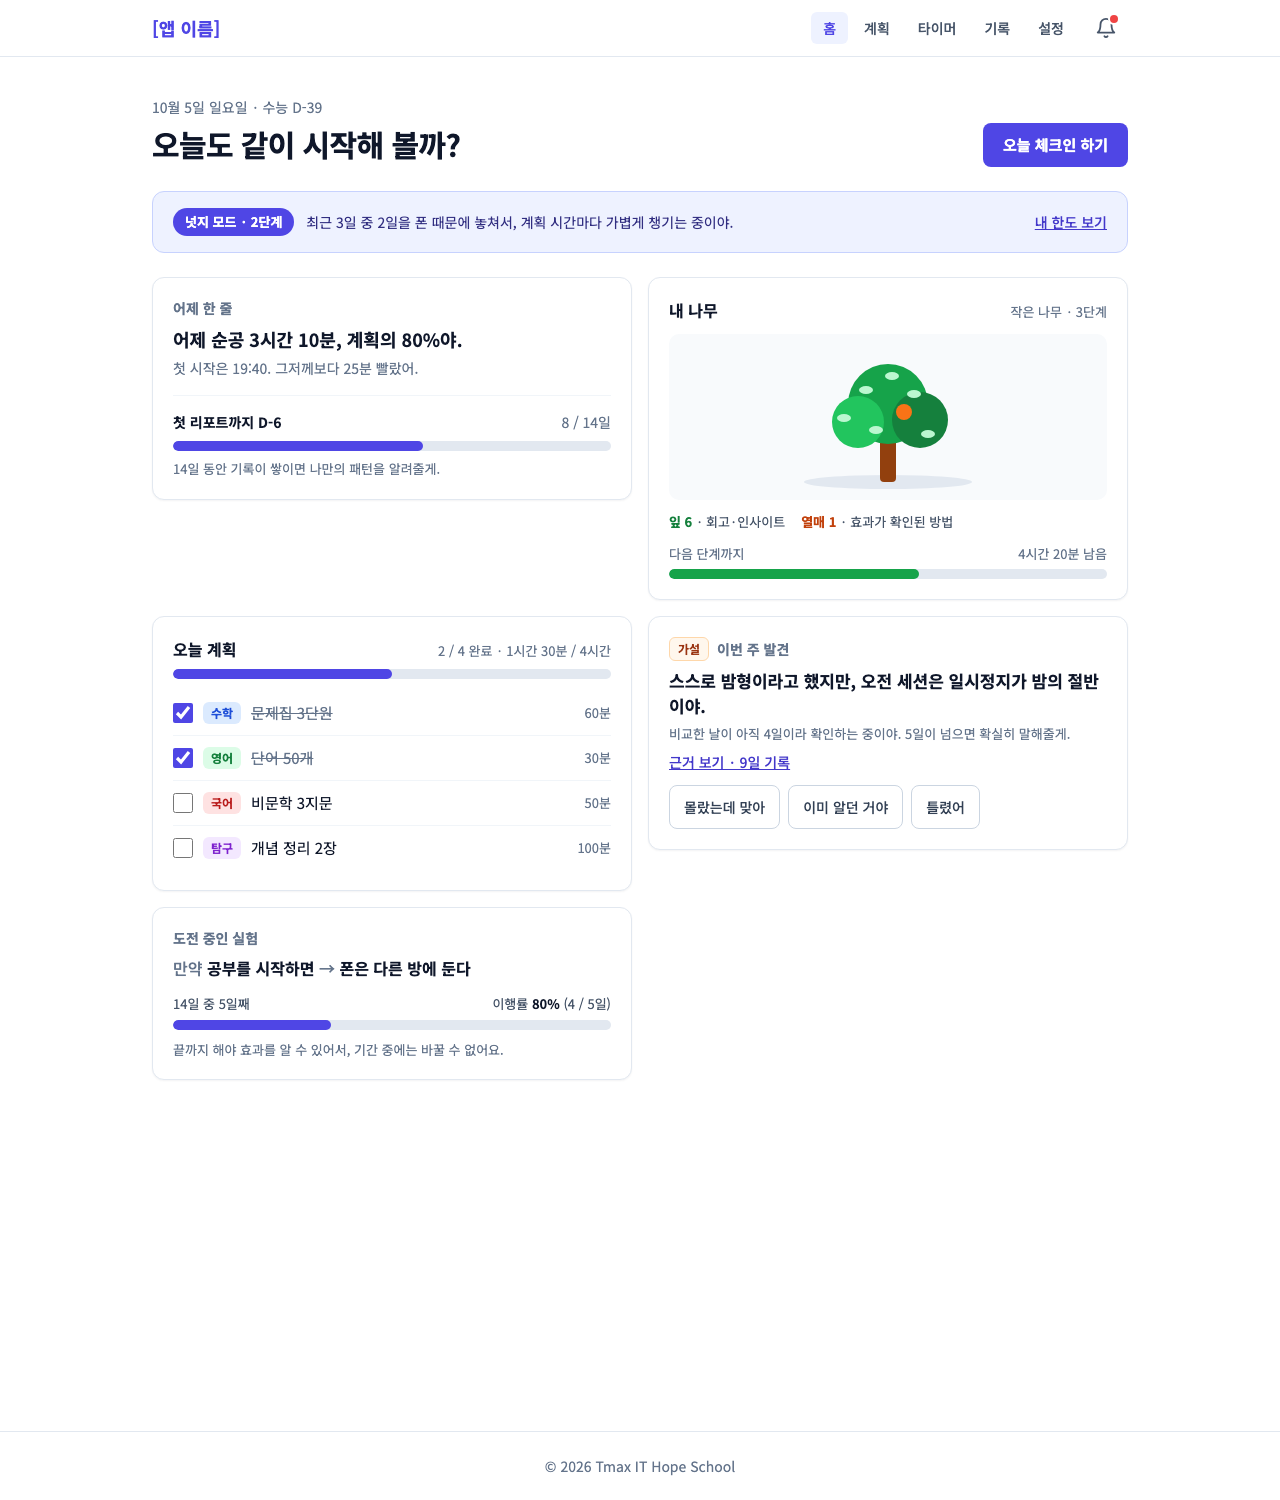
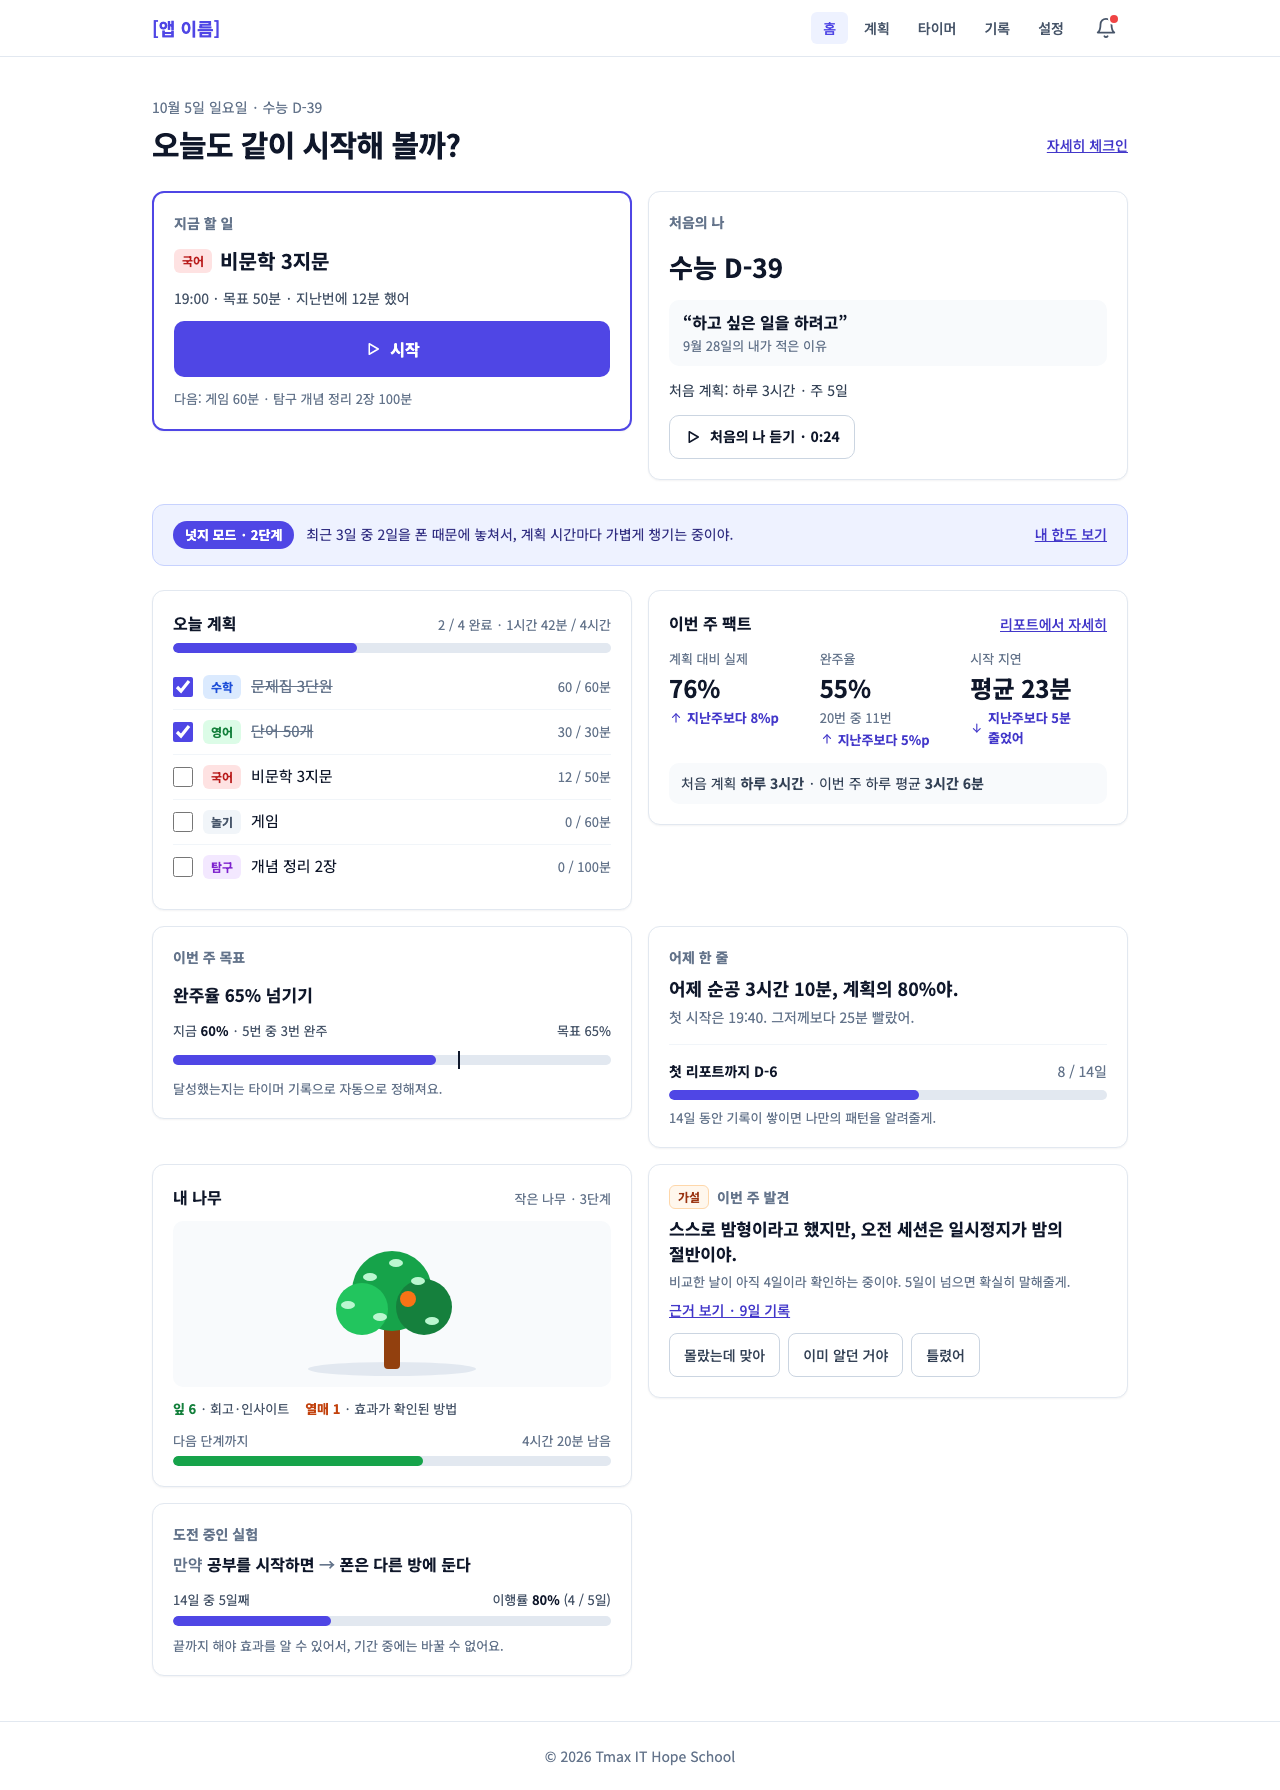
docs: 피드백 반영 화면 시안 22장 추가·교체
"덜 묻고, 타이머가 잰 숫자로 말한다" 방향에 맞춰 홈·공부 계획·타이머·
주간 리포트·설정 그림 10장을 다시 뽑고, 플래너 보기·타이머 시작 전·
그만하기 확인·초기 계획·다짐 녹음 등 새 화면 12장을 더했습니다.
README 의 화면 목록과 "시안이 없는 화면" 표도 같이 고쳤습니다.

Refs: #231, #232, #237, #243

diff --git a/docs/design/README.md b/docs/design/README.md
@@ -1,6 +1,9 @@
-# 화면 시안 (기획서 v2)
+# 화면 시안 (기획서 v2 + 2026-10-10 피드백 반영)
 
 기획서 v2(2026-10-05)를 바탕으로 그린 **화면 시안**입니다. 피그마 대신 이 폴더의 그림을 보고 화면을 만듭니다.
+
+> **2026-10-10 에 바뀐 것** — 피드백 반영 방향("덜 묻고, 타이머가 잰 숫자로 말한다", Tmax-IT-Hope-School/Project#11)에 맞춰
+> **홈 · 공부 계획 · 타이머 · 주간 리포트 · 설정**을 다시 그리고, 새 화면 12장을 더했습니다. 아래 표에서 **(새)** 가 붙은 것이 새 그림입니다.
 
 - 데스크톱: 폭 1280px / 모바일: 폭 375px (프로젝트 기준 폭, CLAUDE.md 4장)
 - 그 사이 폭(태블릿)은 그림이 없습니다 → 아래 [반응형으로 만들 때](#반응형으로-만들-때) 를 따릅니다
@@ -25,52 +28,68 @@
 | 기록 화면의 카드              | 시험 · 일기                                                      | #80, #63  |
 | 리포트의 "개선안 고르러 가기" | 개선안 고르기                                                    | #64       |
 | 타이머                        | 집중 모드                                                        | #69       |
-| 홈의 버튼                     | 매일 체크인 (통화를 못 받은 날)                                  | #24       |
+| 계획의 [▶ 시작] · 홈의 [시작] | 그 계획으로 타이머가 바로 시작                                   | #232 #243 |
+| 계획 화면의 [목록 \| 플래너]  | 플래너 보기 (하루를 시간순으로)                                  | #237      |
+| 타이머 시작 화면              | 기분 1탭 체크인 (기본)                                           | #242      |
+| 홈의 "자세히 체크인" 링크     | 매일 체크인 화면 (선택)                                          | #24       |
 | 탭 없이 뜨는 화면             | 전화 수신 · 통화 중 · 로그인 · 가입 · 온보딩 · 위기 시 도움 안내 |           |
 
 ## 화면 목록
 
 ### 1. 로그인 · 회원가입
 
-흐름: 로그인 → (SNS 로그인 처리 중 #47) → 가입 정보·동의 → 온보딩 질문 → 준비 끝 → 홈. 만 14세 미만을 고르면 가입 불가 안내.
+흐름: 로그인 → (SNS 로그인 처리 중 #47) → 가입 정보·동의 → 온보딩 질문 → 초기 계획 → 처음의 다짐 녹음(선택) → 준비 끝 → 홈. 만 14세 미만을 고르면 가입 불가 안내.
+온보딩 질문은 처음에 꼭 필요한 4 ~ 5개만 묻고, 나머지는 설정의 "내 정보 더 알려주기" 로 옮깁니다 (#239).
 
-| 화면           | 데스크톱                                                    | 모바일                                                     | 관련 이슈   |
-| -------------- | ----------------------------------------------------------- | ---------------------------------------------------------- | ----------- |
-| 로그인         | <img src="screens/login-desktop.png" width="360">           | <img src="screens/login-mobile.png" width="180">           | #46         |
-| 가입 정보·동의 | <img src="screens/signup-desktop.png" width="360">          | <img src="screens/signup-mobile.png" width="180">          | #50         |
-| 만 14세 미만   |                                                             | <img src="screens/signup-under14-mobile.png" width="180">  | #50         |
-| 온보딩 질문    | <img src="screens/onboarding-desktop.png" width="360">      | <img src="screens/onboarding-mobile.png" width="180">      | #58 #88 #89 |
-| 준비 끝        | <img src="screens/onboarding-done-desktop.png" width="360"> | <img src="screens/onboarding-done-mobile.png" width="180"> | #103        |
+| 화면                      | 데스크톱                                                    | 모바일                                                      | 관련 이슈   |
+| ------------------------- | ----------------------------------------------------------- | ----------------------------------------------------------- | ----------- |
+| 로그인                    | <img src="screens/login-desktop.png" width="360">           | <img src="screens/login-mobile.png" width="180">            | #46         |
+| 가입 정보·동의            | <img src="screens/signup-desktop.png" width="360">          | <img src="screens/signup-mobile.png" width="180">           | #50         |
+| 만 14세 미만              |                                                             | <img src="screens/signup-under14-mobile.png" width="180">   | #50         |
+| 온보딩 질문               | <img src="screens/onboarding-desktop.png" width="360">      | <img src="screens/onboarding-mobile.png" width="180">       | #58 #88 #89 |
+| 초기 계획 **(새)**        | <img src="screens/onboarding-plan-desktop.png" width="360"> | <img src="screens/onboarding-plan-mobile.png" width="180">  | #240        |
+| 처음의 다짐 녹음 **(새)** |                                                             | <img src="screens/onboarding-voice-mobile.png" width="180"> | #241        |
+| 준비 끝                   | <img src="screens/onboarding-done-desktop.png" width="360"> | <img src="screens/onboarding-done-mobile.png" width="180">  | #103        |
 
 ### 2. 홈
 
-관리 모드와 이유 · 어제 한 줄 · 첫 리포트 카운트다운 · 나무 · 오늘 계획 · 인사이트(가설) · 도전 중인 실험
+지금 할 일([시작] 한 번으로 타이머 시작) · 처음의 나(D-day · 공부하는 이유 · 다짐 듣기) · 관리 모드와 이유 · 오늘 계획(실제 / 목표) · 이번 주 팩트 · 이번 주 목표 · 어제 한 줄 · 첫 리포트 카운트다운 · 나무 · 인사이트(가설) · 도전 중인 실험
 
 | 데스크톱                                         | 모바일                                          |
 | ------------------------------------------------ | ----------------------------------------------- |
 | <img src="screens/home-desktop.png" width="480"> | <img src="screens/home-mobile.png" width="200"> |
 
-관련 이슈: #94 관리 모드 · #85 한 줄·카운트다운 · #68 나무 · #73 #84 인사이트 · #93 실험 카드 · #102 메시지함 아이콘
+관련 이슈: #243 홈 다시 만들기 · #241 처음의 나 듣기 · #245 이번 주 팩트 · #247 이번 주 목표 · #94 관리 모드 · #85 한 줄·카운트다운 · #68 나무 · #73 #84 인사이트 · #93 실험 카드 · #102 메시지함 아이콘
 
 ### 3. 공부 계획
 
-날짜 이동 · 오늘 계획(완료 체크·삭제) · 계획 추가 · 내 과목(색 지정)
+날짜 이동 · 오늘 계획(완료 체크 · 실제 / 목표 · [▶ 시작] · 삭제) · 계획 추가(말로 추가 · 자주 쓰는 계획 · 공부/놀기 · 시작 시각 · 목표 시간 버튼 · 매주 반복) · 내 루틴 · 내 과목(색 지정)
 
-| 데스크톱                                         | 모바일                                          |
-| ------------------------------------------------ | ----------------------------------------------- |
-| <img src="screens/plan-desktop.png" width="480"> | <img src="screens/plan-mobile.png" width="200"> |
-
-관련 이슈: #11 #13 #15 #16 #17 (#12 #14 는 시안 전에 완료)
+| 화면                    | 데스크톱                                                  | 모바일                                                   | 관련 이슈                      |
+| ----------------------- | --------------------------------------------------------- | -------------------------------------------------------- | ------------------------------ |
+| 목록 보기               | <img src="screens/plan-desktop.png" width="360">          | <img src="screens/plan-mobile.png" width="180">          | #232 #235 #236 #238, #11 ~ #17 |
+| 플래너 보기 **(새)**    | <img src="screens/plan-timeline-desktop.png" width="360"> | <img src="screens/plan-timeline-mobile.png" width="180"> | #237 (계획과 실제 겹쳐 보기)   |
+| 계획 없는 날 **(새)**   |                                                           | <img src="screens/plan-empty-mobile.png" width="180">    | #235 (어제 계획 가져오기)      |
+| 말로 계획 추가 **(새)** |                                                           | <img src="screens/plan-voice-mobile.png" width="180">    | #248 (AI 가 만든 초안)         |
 
 ### 4. 타이머 · 집중 모드
 
-| 화면           | 데스크톱                                          | 모바일                                                  | 관련 이슈            |
-| -------------- | ------------------------------------------------- | ------------------------------------------------------- | -------------------- |
-| 타이머         | <img src="screens/timer-desktop.png" width="360"> | <img src="screens/timer-mobile.png" width="180">        | #18 ~ #22, #44       |
-| 집중 모드      | <img src="screens/focus-desktop.png" width="360"> | <img src="screens/focus-mobile.png" width="180">        | #69                  |
-| 집중 모드 해제 |                                                   | <img src="screens/focus-unlock-mobile.png" width="180"> | #69 (10초 대기·사유) |
+목표 시간을 정하고 시작하면 **남은 시간이 줄어듭니다** (#231). 계획에서 시작하면 과목과 목표 시간이 채워진 채로 바로 시작됩니다 (#232).
+
+| 화면                    | 데스크톱                                          | 모바일                                                       | 관련 이슈                                  |
+| ----------------------- | ------------------------------------------------- | ------------------------------------------------------------ | ------------------------------------------ |
+| 타이머 (공부 중)        | <img src="screens/timer-desktop.png" width="360"> | <img src="screens/timer-mobile.png" width="180">             | #231 #232 #234, #18 ~ #22, #44             |
+| 타이머 시작 전 **(새)** |                                                   | <img src="screens/timer-ready-mobile.png" width="180">       | #242 기분 1탭 · #231 목표 시간 · #246 추천 |
+| 그만하기 확인 **(새)**  |                                                   | <img src="screens/timer-stop-mobile.png" width="180">        | #233 · #241 처음의 나 듣기                 |
+| 그만하는 이유 **(새)**  |                                                   | <img src="screens/timer-stop-reason-mobile.png" width="180"> | #233 (이유 1탭)                            |
+| 목표 달성 **(새)**      |                                                   | <img src="screens/timer-done-mobile.png" width="180">        | #231 (더 한 시간은 `+` 로)                 |
+| 노는 시간 끝 **(새)**   |                                                   | <img src="screens/timer-play-end-mobile.png" width="180">    | #238 (다음 계획 바로 시작)                 |
+| 집중 모드               | <img src="screens/focus-desktop.png" width="360"> | <img src="screens/focus-mobile.png" width="180">             | #69                                        |
+| 집중 모드 해제          |                                                   | <img src="screens/focus-unlock-mobile.png" width="180">      | #69 (10초 대기·사유)                       |
 
 ### 5. 매일 체크인
+
+기본 체크인은 **타이머를 시작할 때 기분을 한 번 누르는 것**입니다 (#242, 위의 "타이머 시작 전" 그림). 아래 화면은 지우지 않고 "자세히 체크인(선택)" 으로 남습니다.
 
 어제 요약 · 컨디션 · 기분 · 미달 원인 · 오늘 예상 순공 · 개선안 실천 · 오늘의 약속
 
@@ -110,12 +129,12 @@
 
 ### 9. 리포트 · 개선안 (기록 탭)
 
-| 화면                    | 데스크톱                                                | 모바일                                                 | 관련 이슈           |
-| ----------------------- | ------------------------------------------------------- | ------------------------------------------------------ | ------------------- |
-| 주간 리포트 · 실험      | <img src="screens/report-desktop.png" width="360">      | <img src="screens/report-mobile.png" width="180">      | #72 #73 #84 #93 #64 |
-| 월간 리포트 · 성장 곡선 | <img src="screens/monthly-desktop.png" width="360">     | <img src="screens/monthly-mobile.png" width="180">     | #86 #71             |
-| 개선안 고르기           | <img src="screens/suggestions-desktop.png" width="360"> | <img src="screens/suggestions-mobile.png" width="180"> | #64                 |
-| 나 사용설명서           | <img src="screens/manual-desktop.png" width="360">      | <img src="screens/manual-mobile.png" width="180">      | #87                 |
+| 화면                    | 데스크톱                                                | 모바일                                                 | 관련 이슈                                                                 |
+| ----------------------- | ------------------------------------------------------- | ------------------------------------------------------ | ------------------------------------------------------------------------- |
+| 주간 리포트 · 실험      | <img src="screens/report-desktop.png" width="360">      | <img src="screens/report-mobile.png" width="180">      | #245 이번 주 팩트 · #249 AI 코치 · #247 이번 주 목표, #72 #73 #84 #93 #64 |
+| 월간 리포트 · 성장 곡선 | <img src="screens/monthly-desktop.png" width="360">     | <img src="screens/monthly-mobile.png" width="180">     | #86 #71                                                                   |
+| 개선안 고르기           | <img src="screens/suggestions-desktop.png" width="360"> | <img src="screens/suggestions-mobile.png" width="180"> | #64                                                                       |
+| 나 사용설명서           | <img src="screens/manual-desktop.png" width="360">      | <img src="screens/manual-mobile.png" width="180">      | #87                                                                       |
 
 ### 10. 설정 · 도움 안내
 
@@ -151,19 +170,27 @@
 
 아래는 아직 그림이 없습니다. **비슷한 화면의 카드·버튼·간격을 그대로 따라** 만들어 주세요.
 
-| 화면                         | 관련 이슈   | 참고할 시안                              |
-| ---------------------------- | ----------- | ---------------------------------------- |
-| 첫날(기록이 없을 때) 빈 화면 | #85 #72 #87 | 각 화면의 "아직 없어요" 문구 + 카드 모양 |
-| 주간 회고 (3문항)            | #82         | 시험 결과의 "회고 3문항"                 |
-| 목표 조정 제안 팝업          | #67         | `Modal`(#9) + 개선안 카드                |
-| 관리 모드 설명 팝업          | #94         | `Modal`(#9) + 설정의 관리 강도 목록      |
-| 온보딩의 다른 질문 형태      | #58 #88 #89 | 온보딩 질문 화면 + 가입 정보 입력칸      |
-| 뽀모도로 모드                | #23         | 타이머                                   |
-| SNS 로그인 처리 중·실패      | #47         | 통화 끊김 화면 (아이콘 + 안내 + 버튼)    |
+| 화면                                     | 관련 이슈   | 참고할 시안                              |
+| ---------------------------------------- | ----------- | ---------------------------------------- |
+| 첫날(기록이 없을 때) 빈 화면             | #85 #72 #87 | 각 화면의 "아직 없어요" 문구 + 카드 모양 |
+| 주간 회고 (3문항)                        | #82         | 시험 결과의 "회고 3문항"                 |
+| 목표 조정 제안 팝업                      | #67         | `Modal`(#9) + 개선안 카드                |
+| 관리 모드 설명 팝업                      | #94         | `Modal`(#9) + 설정의 관리 강도 목록      |
+| 온보딩의 다른 질문 형태                  | #58 #88 #89 | 온보딩 질문 화면 + 가입 정보 입력칸      |
+| 뽀모도로 모드                            | #23         | 타이머                                   |
+| 목표 없이 재기 · 목표 시간 직접 입력     | #231        | 타이머 시작 전                           |
+| 놀기를 골랐을 때의 계획 추가 폼          | #238        | 공부 계획의 "계획 추가"                  |
+| 플래너에서 계획이 겹칠 때 표시           | #237        | 플래너 보기의 블록                       |
+| 내 정보 더 알려주기 (나중으로 옮긴 질문) | #239        | 온보딩 질문 화면                         |
+| 지난 목표 목록 (달성 / 미달)             | #247        | 주간 리포트의 "이번 주 목표" 카드        |
+| 휴대폰을 앱에 고정하는 법 안내           | #250        | `/phone-focus` 화면의 안내 카드          |
+| SNS 로그인 처리 중·실패                  | #47         | 통화 끊김 화면 (아이콘 + 안내 + 버튼)    |
 
 ## 실제 프로젝트와 다른 점
 
 - **앱 이름**은 `STARFLOW` 입니다. 그림에는 `[앱 이름]` 으로 적혀 있습니다.
+- **2026-10-10 에 그린 그림의 예시는 서로 이어집니다.** 같은 하루(수학 60분 완주 → 국어 12분째 → 게임 → 탐구)를 홈·계획·플래너·타이머가 같이 보여줍니다. 숫자가 예시인 것은 그대로입니다.
+- **확인 창 그림**(그만하기 확인 · 그만하는 이유)은 휴대폰 한 화면 크기(375×844)로 그렸습니다. 실제로는 `Modal`(#9)로 만듭니다.
 - **버튼 높이**가 그림에서는 44px 입니다. 프로젝트 규칙은 "최소 40px(`h-10`)" 이라 `h-10` 또는 `h-11` 로 만들면 됩니다.
 - **글꼴**이 그림과 조금 다를 수 있습니다. (그림은 Noto Sans KR, 프로젝트는 `index.css` 의 Pretendard → 시스템 글꼴)
 - **SNS 버튼 로고**는 그림에서 단순하게 그렸습니다. 만들 때는 각 SNS 공식 버튼 가이드의 로고·색을 따릅니다. (#46, 어떤 SNS 를 쓸지는 BE 와 정함)
